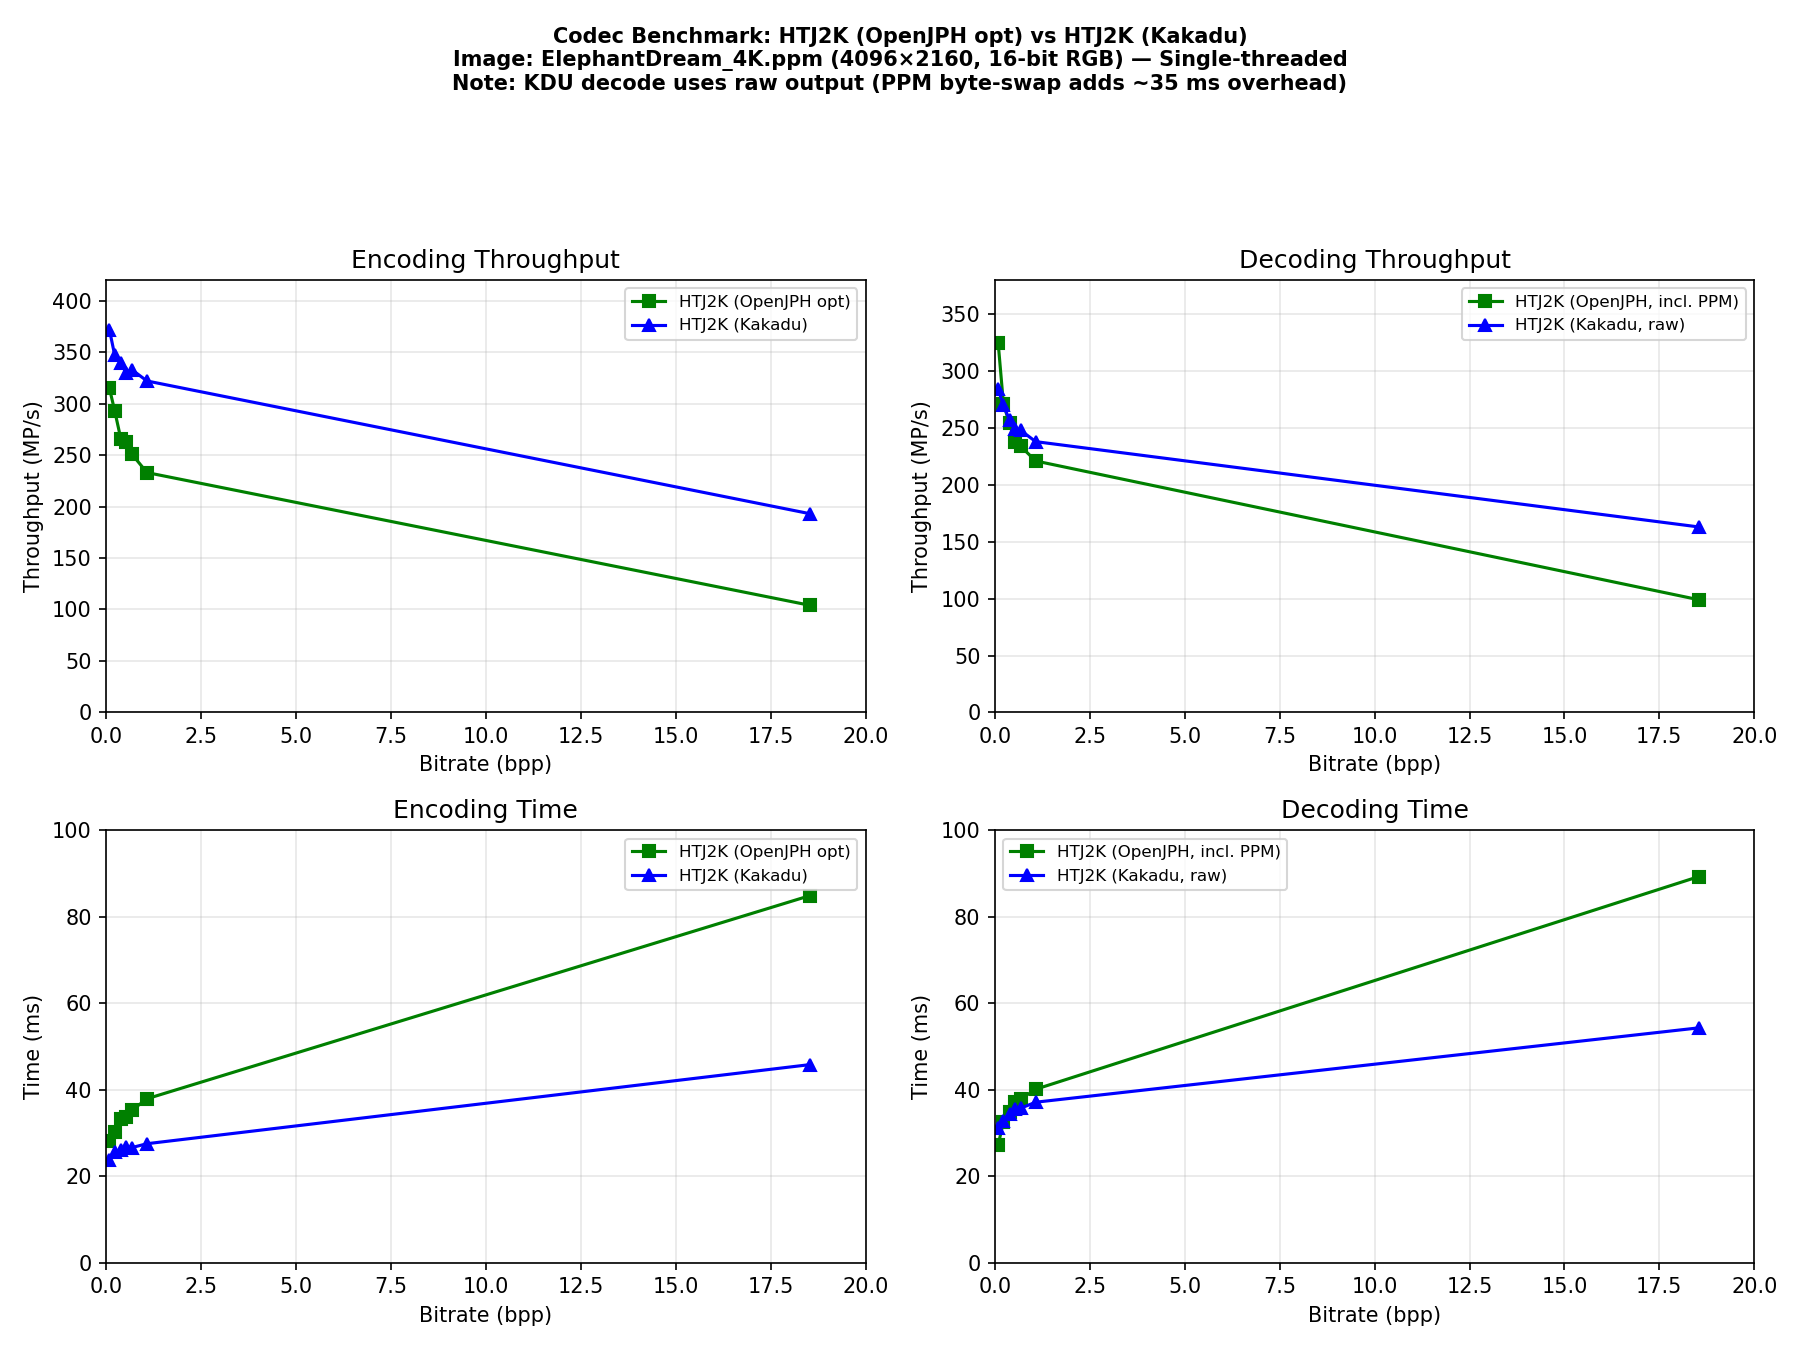
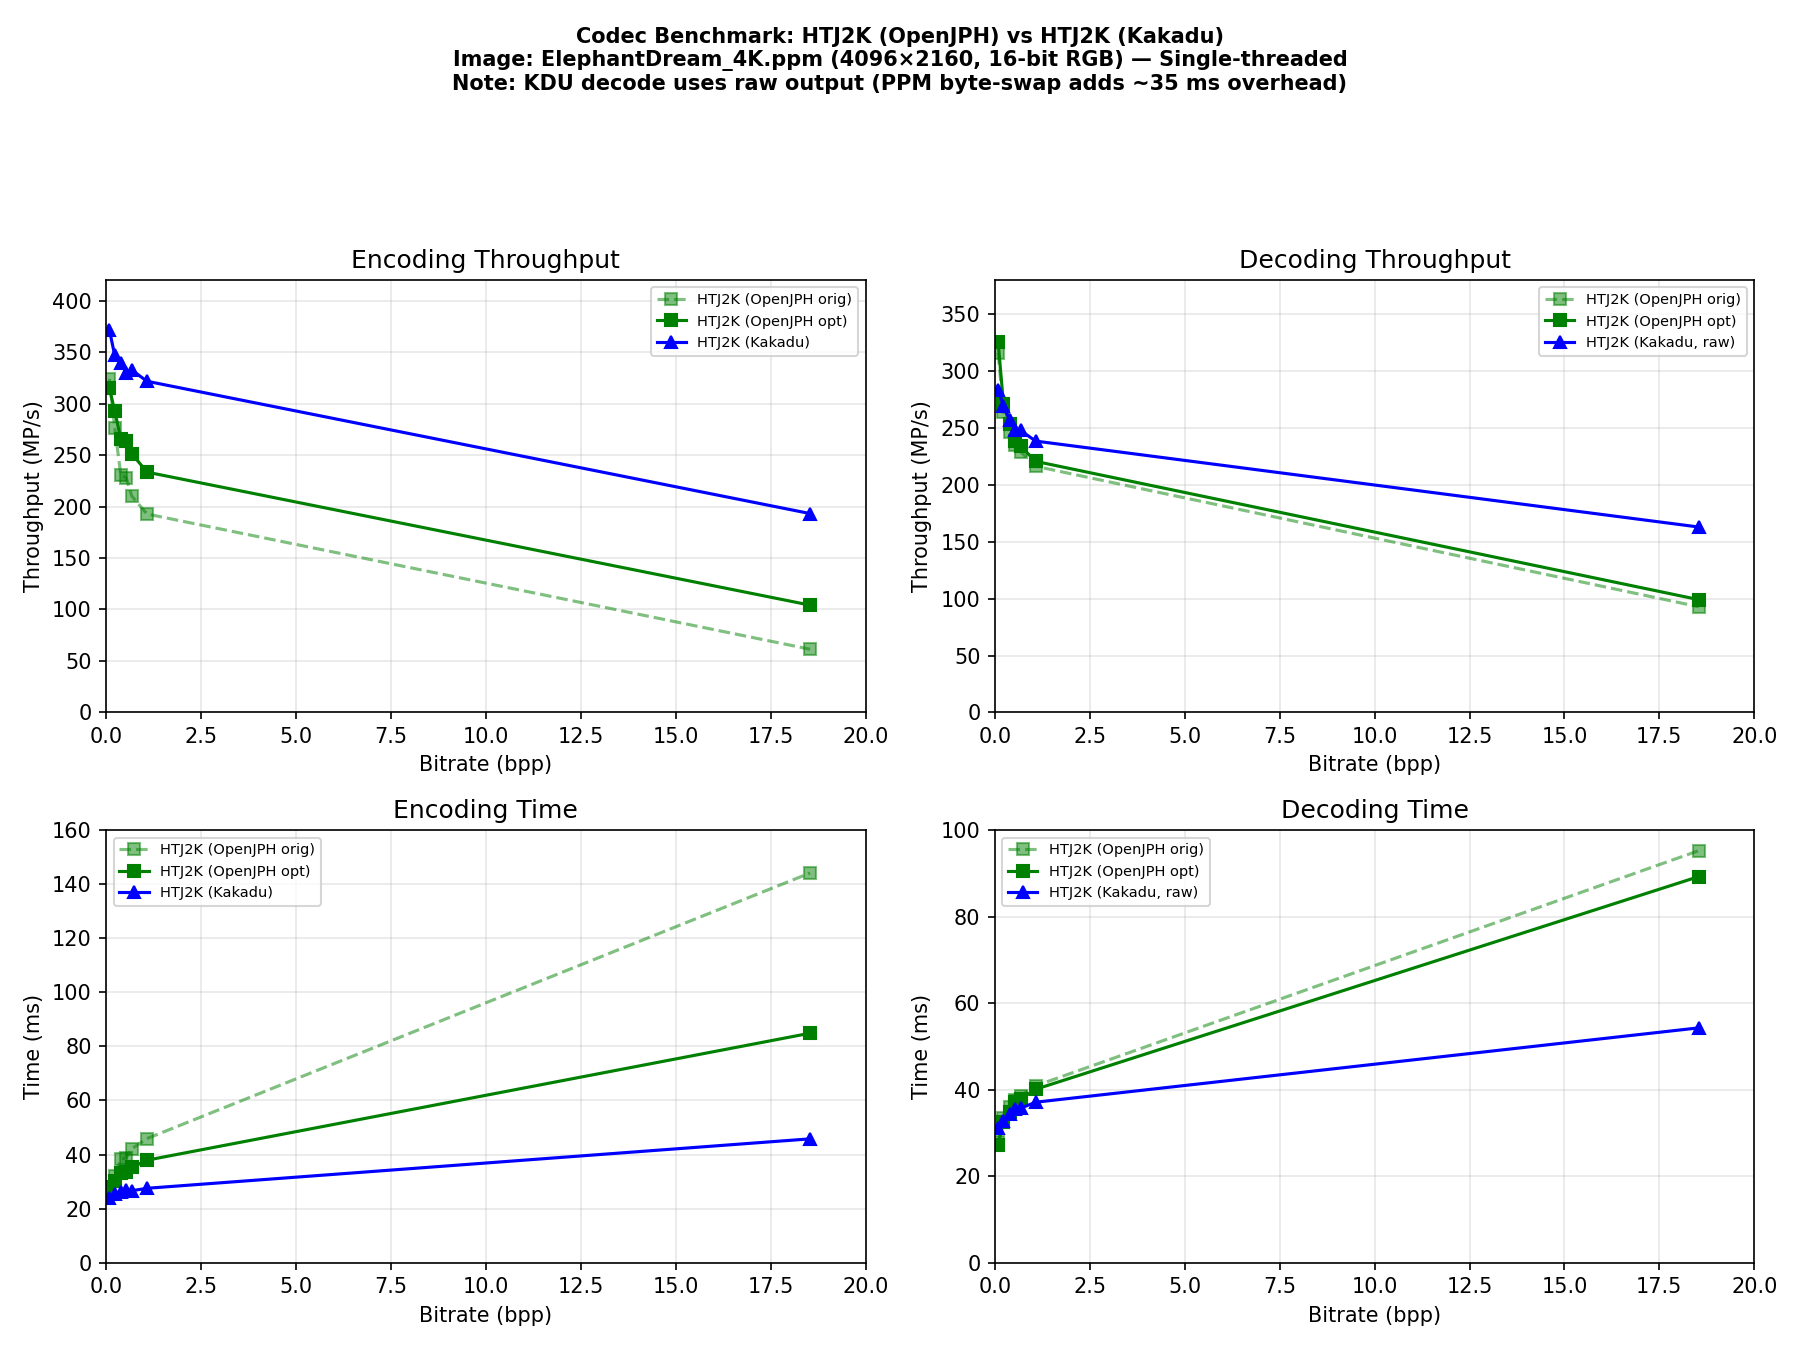
Add original OpenJPH performance to 16-bit ElephantDream benchmarks
Measured master (unoptimized) OpenJPH on ElephantDream_4K 16-bit.
Lossless encode: 61→104 MP/s (+70%). Lossy encode: 6-21% faster at
mid-to-high bitrates. Decode: minimal change (~2-6%). Plot now shows
orig/opt/Kakadu curves for both encode and decode.

diff --git a/benchmark_results.md b/benchmark_results.md
@@ -134,15 +134,15 @@ cost center at ~40% of total encode time.
 
 ### Encoding (ElephantDream_4K)
 
-| Qstep | bpp | OJPH opt (s) | KDU (s) | OJPH opt (MP/s) | KDU (MP/s) | Ratio |
-|------:|----:|--------------|---------|-----------------|------------|-------|
-| 0.15  | 0.08 | .0281       | .0238   | 315             | 372        | 1.18x |
-| 0.06  | 0.22 | .0302       | .0255   | 293             | 347        | 1.18x |
-| 0.038 | 0.38 | .0333       | .0261   | 266             | 339        | 1.27x |
-| 0.025 | 0.52 | .0336       | .0268   | 263             | 330        | 1.25x |
-| 0.02  | 0.67 | .0352       | .0266   | 251             | 333        | 1.32x |
-| 0.011 | 1.07 | .0379       | .0275   | 233             | 322        | 1.38x |
-| lossless | 18.54 | .0849  | .0458   | 104             | 193        | 1.85x |
+| Qstep | bpp | OJPH orig (s) | OJPH opt (s) | KDU (s) | OJPH orig (MP/s) | OJPH opt (MP/s) | KDU (MP/s) | Speedup |
+|------:|----:|--------------:|-------------:|--------:|-----------------:|----------------:|-----------:|--------:|
+| 0.15  | 0.08 | .0273       | .0281        | .0238   | 324              | 315             | 372        | -3%     |
+| 0.06  | 0.22 | .0320       | .0302        | .0255   | 276              | 293             | 347        | +6%     |
+| 0.038 | 0.38 | .0383       | .0333        | .0261   | 231              | 266             | 339        | +15%    |
+| 0.025 | 0.52 | .0388       | .0336        | .0268   | 228              | 263             | 330        | +15%    |
+| 0.02  | 0.67 | .0421       | .0352        | .0266   | 210              | 251             | 333        | +20%    |
+| 0.011 | 1.07 | .0459       | .0379        | .0275   | 193              | 233             | 322        | +21%    |
+| lossless | 18.54 | .1442  | .0849        | .0458   | 61               | 104             | 193        | +70%    |
 
 ### Decoding (ElephantDream_4K)
 
@@ -151,32 +151,33 @@ expensive (~0.035 s overhead). The table shows both the PPM time and
 the raw decode time (output to `.rawl`, no PPM byte-swap/write).
 OpenJPH's `Elapsed time` also includes PPM writing.
 
-| Qstep | bpp | OJPH (s) | KDU PPM (s) | KDU raw (s) | OJPH (MP/s) | KDU raw (MP/s) | Ratio |
-|------:|----:|---------:|------------:|------------:|------------:|---------------:|------:|
-| 0.15  | 0.08 | .0272  | .0638       | .0312       | 325         | 284            | 0.87x |
-| 0.06  | 0.22 | .0326  | .0671       | .0328       | 271         | 270            | 1.00x |
-| 0.038 | 0.38 | .0349  | .0684       | .0344       | 254         | 257            | 1.01x |
-| 0.025 | 0.52 | .0371  | .0692       | .0356       | 238         | 249            | 1.04x |
-| 0.02  | 0.67 | .0378  | .0696       | .0357       | 234         | 248            | 1.06x |
-| 0.011 | 1.07 | .0401  | .0705       | .0371       | 221         | 238            | 1.08x |
-| lossless | 18.54 | .0893 | .0681    | .0543       | 99          | 163            | 1.64x |
+| Qstep | bpp | OJPH orig (s) | OJPH opt (s) | KDU PPM (s) | KDU raw (s) | OJPH orig (MP/s) | OJPH opt (MP/s) | KDU raw (MP/s) | Ratio |
+|------:|----:|--------------:|-------------:|------------:|------------:|-----------------:|----------------:|---------------:|------:|
+| 0.15  | 0.08 | .0280       | .0272        | .0638       | .0312       | 316              | 325             | 284            | 0.87x |
+| 0.06  | 0.22 | .0335       | .0326        | .0671       | .0328       | 264              | 271             | 270            | 1.00x |
+| 0.038 | 0.38 | .0359       | .0349        | .0684       | .0344       | 246              | 254             | 257            | 1.01x |
+| 0.025 | 0.52 | .0377       | .0371        | .0692       | .0356       | 235              | 238             | 249            | 1.04x |
+| 0.02  | 0.67 | .0386       | .0378        | .0696       | .0357       | 229              | 234             | 248            | 1.06x |
+| 0.011 | 1.07 | .0409       | .0401        | .0705       | .0371       | 216              | 221             | 238            | 1.08x |
+| lossless | 18.54 | .0953  | .0893        | .0681       | .0543       | 93               | 99              | 163            | 1.64x |
 
-Note: the "Ratio" column compares OJPH (incl. PPM write) against KDU
-raw (no PPM write), so it slightly favours Kakadu. At low bitrates
+Note: the "Ratio" column compares OJPH opt (incl. PPM write) against
+KDU raw (no PPM write), so it slightly favours Kakadu. At low bitrates
 OJPH is faster even with the PPM write overhead included.
 
 ### Summary (ElephantDream_4K)
 
-| Metric | OJPH opt (MP/s) | KDU (MP/s) | Ratio |
-|--------|----------------:|-----------:|------:|
-| Avg encode throughput, lossy | 270 | 340 | 1.26x |
-| Encode throughput, lossless | 104 | 193 | 1.85x |
-| Avg decode throughput, lossy (KDU raw) | 257 | 258 | ~1.0x |
-| Decode throughput, lossless (KDU raw) | 99 | 163 | 1.64x |
+| Metric | OJPH orig (MP/s) | OJPH opt (MP/s) | KDU (MP/s) | Ratio (KDU/opt) |
+|--------|------------------:|----------------:|-----------:|----------------:|
+| Avg encode throughput, lossy | 244 | 270 | 340 | 1.26x |
+| Encode throughput, lossless | 61 | 104 | 193 | 1.85x |
+| Avg decode throughput, lossy (KDU raw) | 251 | 257 | 258 | ~1.0x |
+| Decode throughput, lossless (KDU raw) | 93 | 99 | 163 | 1.64x |
 
 The encoding gap narrows to 1.18-1.38x for lossy on 16-bit (vs 2.00x
-on 8-bit). Lossy decode is roughly equal when comparing fairly (OJPH
-incl. PPM vs KDU raw). Lossless encode/decode gaps are 1.85x/1.64x.
+on 8-bit). Lossless encoding improved 70% (61→104 MP/s). Lossy decode
+is roughly equal when comparing fairly (OJPH incl. PPM vs KDU raw).
+Lossless encode/decode gaps are 1.85x/1.64x.
 
 ## Plots
 